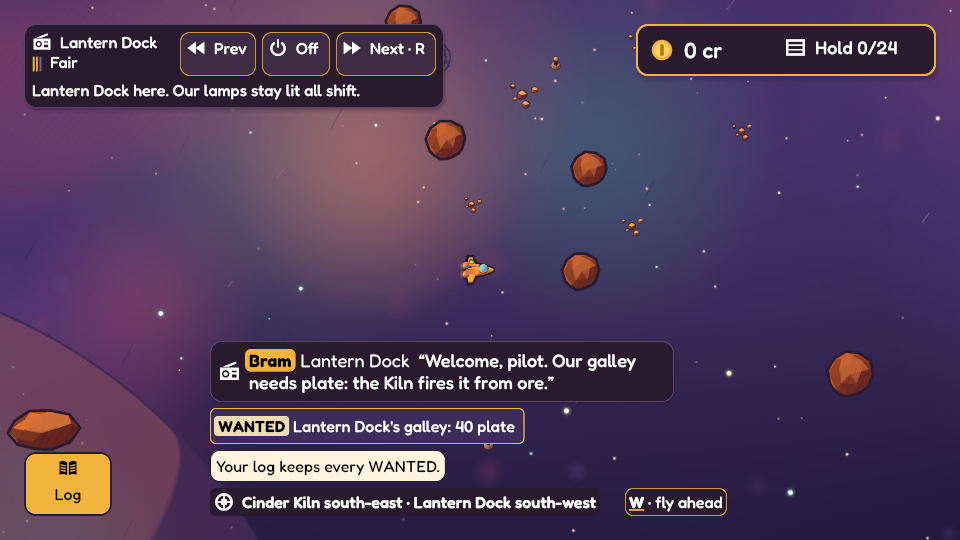
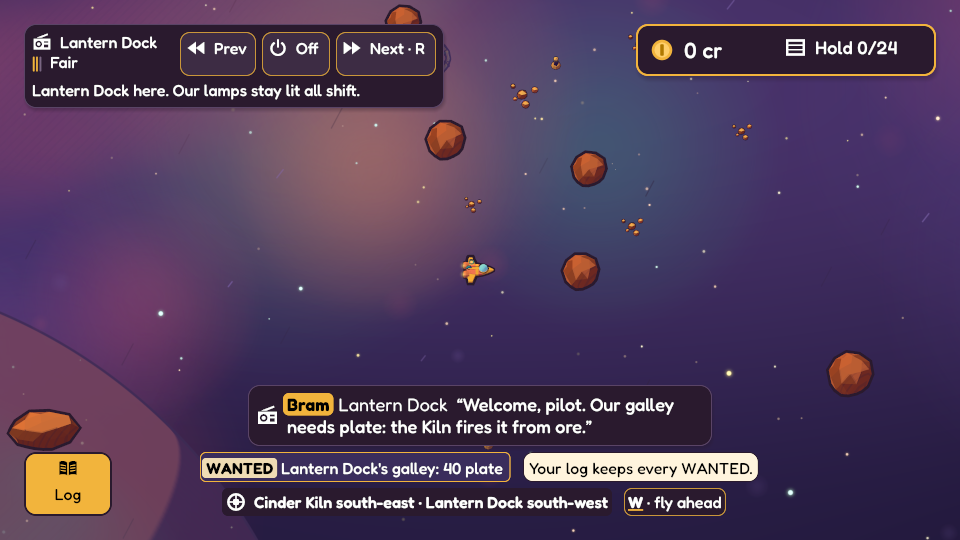
Core: centre the flight stack's lines and pair the short ones
Each line of the bottom stack is centred under the ship. The goal and the lesson
share a line, and so do the bearings and the key, when both fit within
layout.BOTTOM. That width clears the log's book with its "1 new" tag at 960x540.
The flight keys are shorter ("Hold Space · cut the rock", "A or D · turn onto the
rock", "Click the rock · stop") so they sit beside the bearings. At 1280x720 the
opening covers 59,200 pixels against 62,800 before, and 61,500 once the key is
Hold Space.

Changed region(s): [[0.1875, 0.6222, 0.8125, 0.9481]]

diff --git a/game/modules/core/README.md b/game/modules/core/README.md
@@ -1161,10 +1161,12 @@ lesson, the stations off screen, and the one key that fits where the ship is. A
 message never mixes kinds: `scripts/notice.luau` carries its goal, lesson and key
 (`press`) beside it, shown only while it shows, so "Cutting." comes with the pill
 "Let go of Space · stop" rather than the words in its line, and a hint with no key in it
-("Fly slowly into a berth's glowing ring to dock") is a lesson. Short lines' surfaces are
-only as wide as their words, and the bearings sit beside the key when both fit, so the
-opening's five surfaces cover no more of the reach than the one panel before them (at
-1280x720, 62,000 pixels against 62,800). Rocks and stations are click targets: under the pointer a rock lifts
+("Fly slowly into a berth's glowing ring to dock") is a lesson. Each line is centred
+under the ship; short surfaces are only as wide as their words, and two share a line
+when both fit (the goal and the lesson, the bearings and the key), within `layout.BOTTOM`,
+which clears the log's book at 960x540. So the opening's five surfaces cover less of
+the reach than the one panel before them did: at 1280x720, 59,200 pixels against 62,800,
+and 61,500 once the key is `Hold Space · cut the rock`. Rocks and stations are click targets: under the pointer a rock lifts
 and outlines and says what a click does and how much of its ware is left, and a station
 shows its posted prices. In flight each station wears its name under it while it is in
 view, a `yield` label like the traders'. Unless it is well on screen (within 40 units
@@ -1207,10 +1209,10 @@ same buildings in its own paint (`recipes/kiln_exchange.toml`,
 `recipes/kiln_office.toml`). Every collision outline is unchanged: the stripes,
 pennants and marks sit inside the footprints.
 
-Hints teach and then retire (`scripts/teach.luau`). The strip shows one key and what
+Hints teach and then retire (`scripts/teach.luau`). The key pill shows one key and what
 it does where the ship is (`Space · dock at Lantern Dock` in a berth's ring, `Hold Space
-· cut the rock ahead` with the nose on a rock in reach, `A or D · point your nose at the
-rock` beside one, the way to dock once the hold is full, else W, A or D, Shift, and 0
+· cut the rock` with the nose on a rock in reach, `A or D · turn onto the rock` beside
+one, the way to dock once the hold is full, else W, A or D, Shift, and 0
 while the jets or the rig fly), each until it has been used three times.
 Messages report what happened and leave the keys to the strip. A room says "Click Tova to talk" until its keeper's
 introduction has been heard, and for anyone's first three conversations. Messages report what happened, not how fast it happens.
